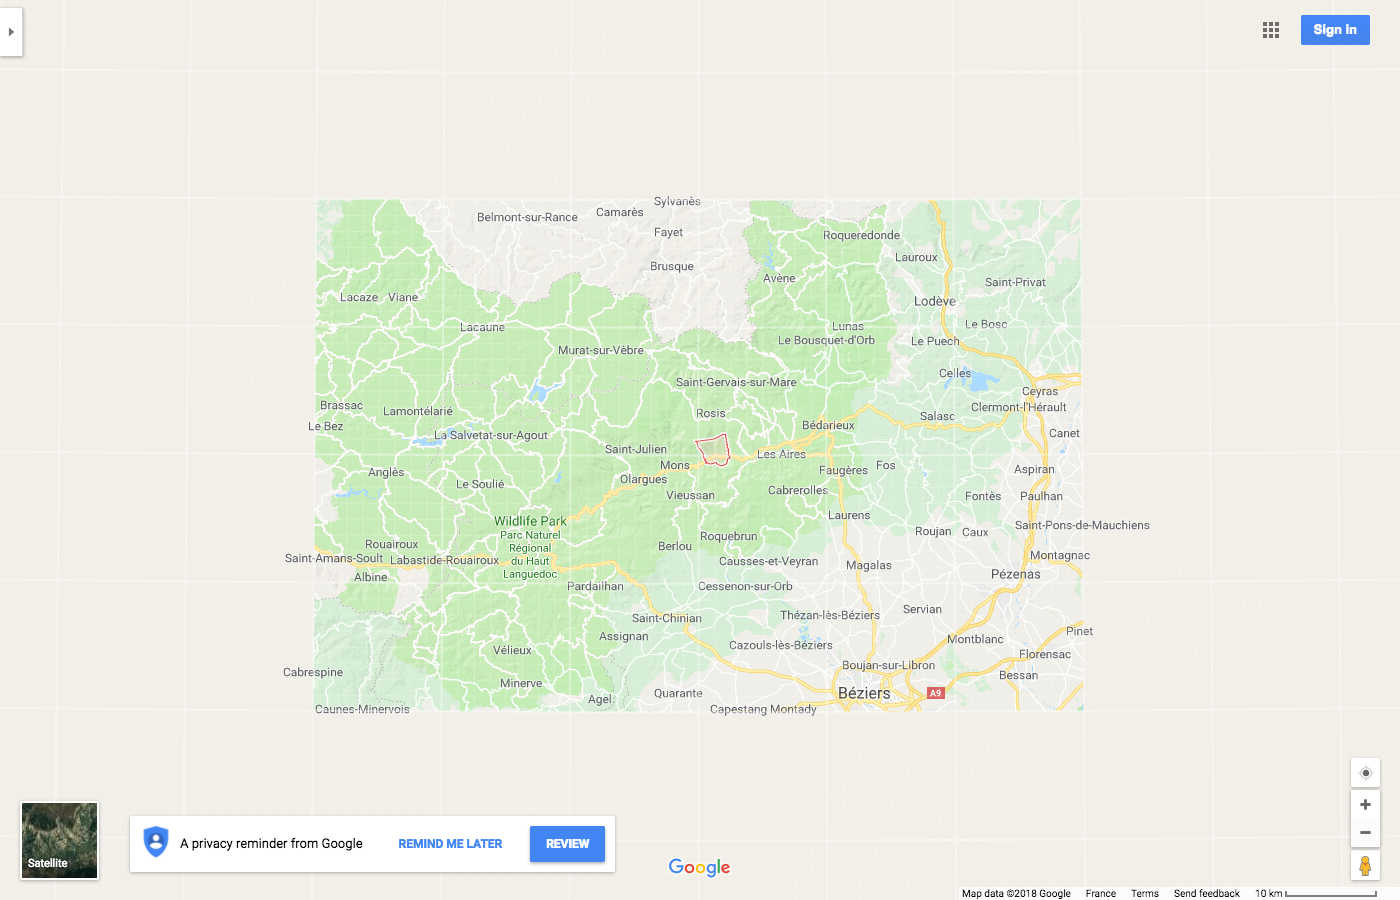
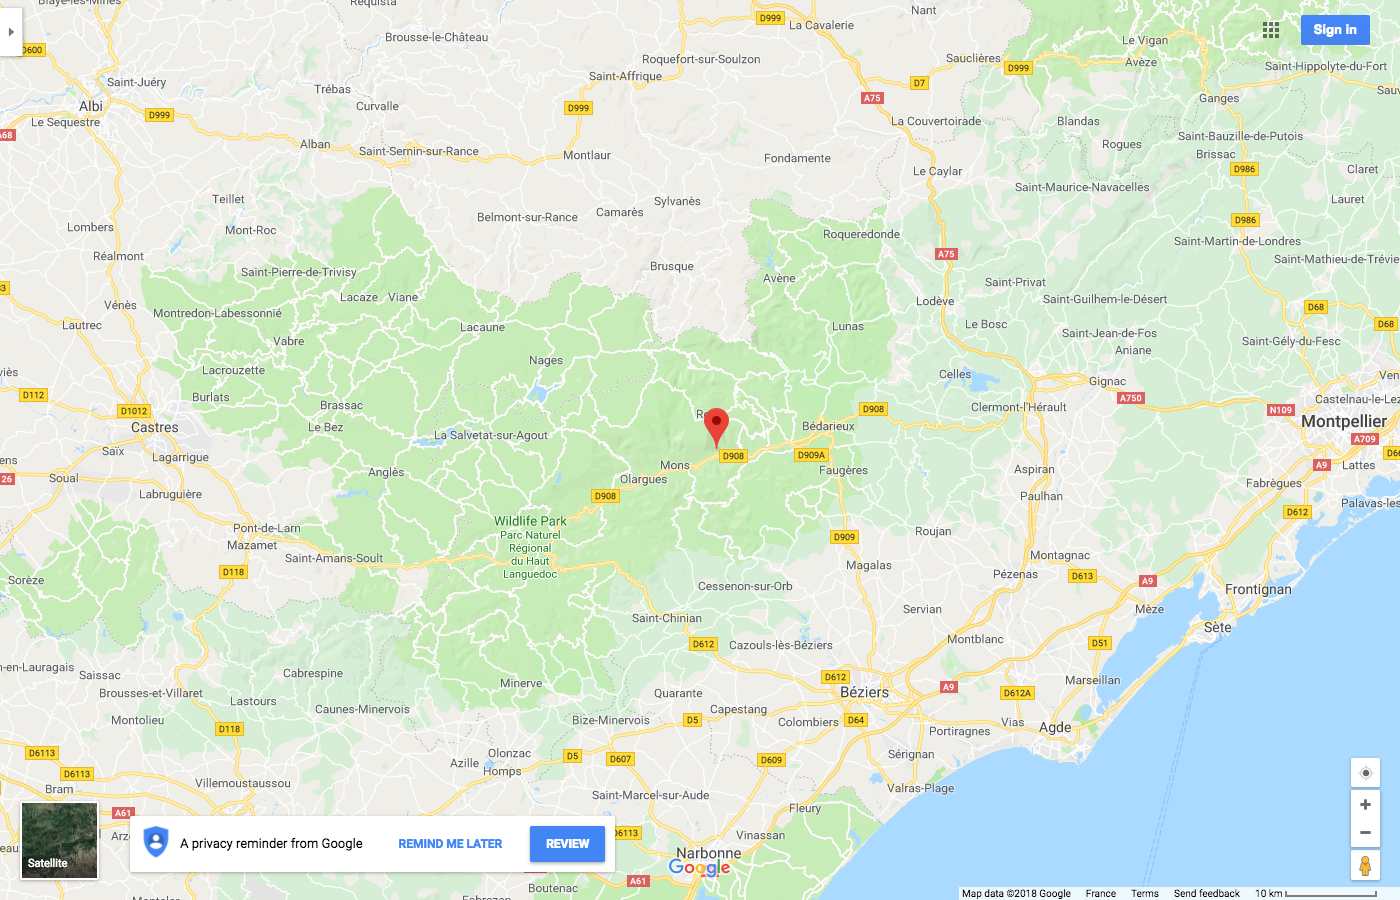
Better maps screenshots

diff --git a/data/crawl-gmaps.js b/data/crawl-gmaps.js
@@ -1,9 +1,51 @@
 const gigs = require("./gigs.json");
-const crawledGigs = require("./crawled-gigs.json");
+// const crawledGigs = require("./crawled-gigs.json");
 const fs = require("fs");
+const path = require("path");
 const puppeteer = require("puppeteer");
 const b = require("./automation");
 const _ = require("lodash");
+
+const redoBadScreenshots = async () => {
+  const mapsPath = path.join("..", "static", "maps");
+  const browser = await puppeteer.launch({
+    headless: false,
+    slowMo: 120
+  });
+  const page = await browser.newPage();
+  page.setViewport({ width: 1400, height: 900 });
+
+  for (gig of gigs) {
+    console.log(`## Crawling gig ${gig.id}`);
+    const fileName = _.kebabCase(gig.address) + ".png";
+    const filePath = path.join(mapsPath, fileName);
+
+    if (!gig.address) {
+      console.error(`gig ${gig.id} has no address`);
+    } else if (!fs.existsSync(filePath)) {
+      console.log(`gig ${gig.id} was good`);
+    } else {
+      await page.goto("https://www.google.com/maps/");
+
+      await b.waitForSelector(page, "#searchboxinput");
+      await page.type("#searchboxinput", gig.address);
+
+      await b.click(page, "#searchbox-searchbutton");
+
+      await b.wait(page, 2000);
+
+      await b.click(page, ".widget-pane-toggle-button");
+
+      for (let i = 0; i < 4; i++) {
+        await b.click(page, "#widget-zoom-out");
+      }
+
+      await b.wait(page, 3000);
+
+      await b.screenshot(page, filePath);
+    }
+  }
+};
 
 const doIt = async () => {
   const browser = await puppeteer.launch({
@@ -78,4 +120,4 @@ const doIt = async () => {
   browser.close();
 };
 
-module.exports = doIt();
+module.exports = redoBadScreenshots();

diff --git a/data/send-images.js b/data/send-images.js
@@ -33,7 +33,7 @@ const sendToCloudinary = (path, publicId, tags) => {
 };
 
 const sendHeaders = async () => {
-  const mapsPath = path.join("..", "static", "headers");
+  const mapsPath = path.join("..", "static", "maps");
   const mapImgs = fs.readdirSync(mapsPath);
 
   for (imageFile of mapImgs) {
@@ -42,7 +42,7 @@ const sendHeaders = async () => {
 
     console.log(`Sending ${imageName}`);
 
-    await sendToCloudinary(imagePath, imageName, ["header"]);
+    await sendToCloudinary(imagePath, imageName, ["map"]);
   }
 };
 
